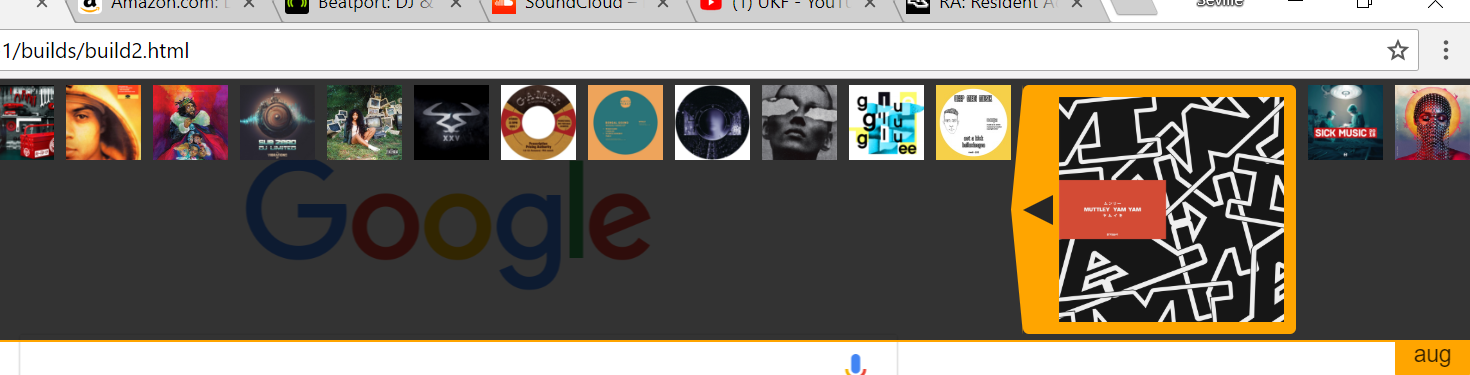
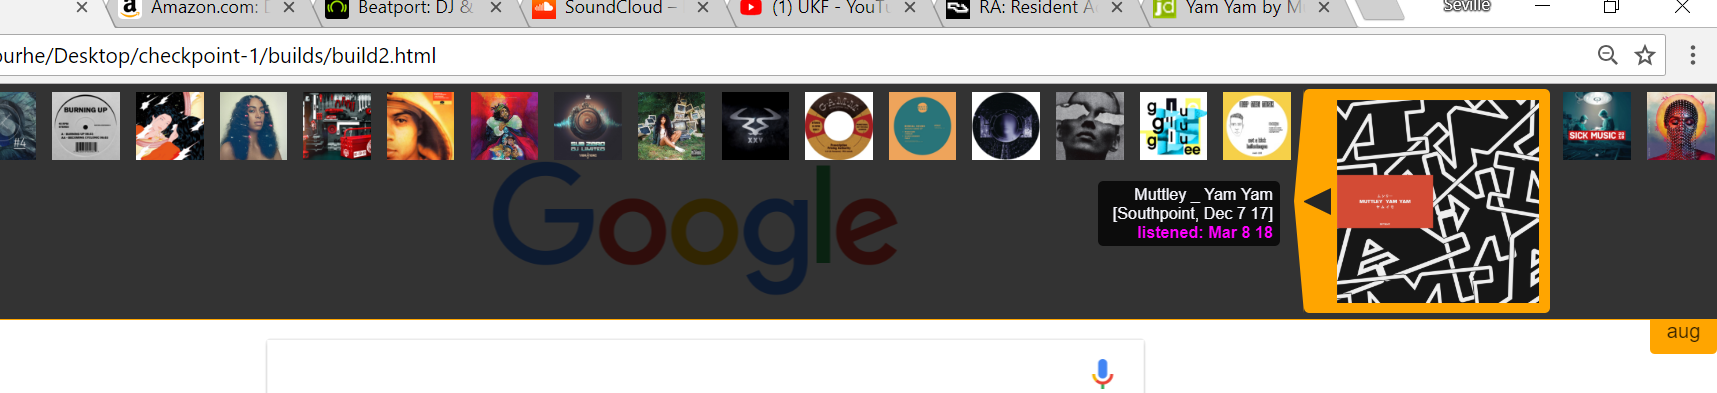
finshed build 2

diff --git a/css/buildstyle.css b/css/buildstyle.css
@@ -55,10 +55,6 @@ img{
 	border-right: 20px solid #262626;
 	border-bottom: 10px solid transparent;
 }
-
-/* .focus-img:hover{
-  transform: scale(3);
-} */
 li{
   float: left;
   box-sizing: border-box;
@@ -85,3 +81,30 @@ li{
   border-radius: 0 0 4px 4px;
   color: rgba(0,0,0,0.8);
 }
+.tooltip .tooltiptext {
+  position: absolute;
+  visibility: hidden;
+  z-index: 1;
+  /* i couldn't figure out how to use flex to auto-center the tooltip box (which
+  might require javascript anyway), and i was running out of time, so i just manually
+  centered it using the top property. */
+  top: 68px;
+  right: 110%;
+  background-color: rgba(0, 0, 0, 0.77);
+  font-family: 'Varela Round', sans-serif;
+  color: ghostwhite;
+  font-size: 12px;
+  /* i couldn't figure out how to use flex to automate the width of the tooltip
+  box, and i was running out of time, so i just manually stuck it in there. */
+  width: 125px;
+  text-align: right;
+  padding: 3px 5px;
+  margin-left: 3px;
+  border-radius: 4px;
+}
+.tooltip:hover .tooltiptext {
+  visibility: visible;
+}
+.listened {
+  font-weight: bold;
+  color: magenta;}

diff --git a/css/style.css b/css/style.css
@@ -142,8 +142,8 @@ input[type="radio"]{
   z-index: -1;
   width: 100%;
 }
-/* this creates a margin below a paragraph when it precedes an image (with the
-.img-gradient class applied) */
+/* this creates a margin below a <p> whenever it precedes an image that has the
+.img-gradient class applied */
  p ~ .img-gradient{
   margin: 50px 0 0 0;
 }
@@ -162,11 +162,12 @@ h2{
   font-size: 300%;
   margin: 1em 0;
 }
-/* I couldn't get any nth-of-type styling to work, so I created classes instead. */
 h2:nth-of-type(even) {text-align: right;}
 h2:nth-of-type(3n+1) {color: aqua;}
-h2:nth-of-type(3n+2)  {color: chartreuse;}
+h2:nth-of-type(3n+2) {color: chartreuse;}
 h2:nth-of-type(3n+3) {color: magenta;}
+/* I got the nth-of-type styling to work by removing the secions, so these
+classes below weren't needed any more. */
 /* .even-header {
   text-align: right;
 }

diff --git a/builds/build2.html b/builds/build2.html
@@ -79,8 +79,15 @@
               Kick">
             </li>
             <li class="focus-li">
-              <div id="triangle-left">
-
+              <div class="tooltip">
+                <div id="triangle-left">
+                    <span class="tooltiptext">Muttley _ Yam Yam<br>
+                      [Southpoint, Dec 7 17]<br>
+                        <span class="listened">
+                          listened: Mar 8 18
+                        </span>
+                    </span>
+                </div>
               </div>
               <img class="focus-img" src="build-images\muttley-yam-yam.jpg" alt="Muttley - Yam
               Yam">

diff --git a/index.html b/index.html
@@ -243,7 +243,7 @@ button links, but i have to move on. -->
           </li>
           <li>
             <a href="builds/all-builds.html" target="_blank">
-              <em>(display builds for screenshots)</em></a>
+              <em>(display-only builds for screenshots)</em></a>
           </li>
         </ul>
       </div>
